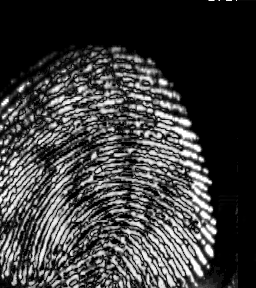
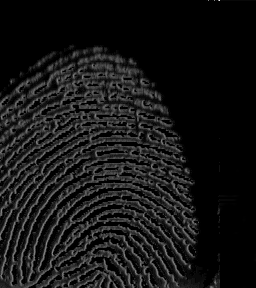
Doc + convention on some names

diff --git a/include/image.h b/include/image.h
@@ -165,7 +165,7 @@ class Image{
         * \param color color of the pixels in the rectangle
         * \return Image with the modified pixels
         */
-        Image rectangle(int x, int y, unsigned int length, unsigned int width, float color);
+        Image Rectangle(int x, int y, unsigned int length, unsigned int width, float color);
 
 
         /**
@@ -207,12 +207,11 @@ class Image{
 
         //PRESSURE
 
-        //Eventuellement le faire pour une ellipse quelconque
         /**
         * \brief Put the pixels of the image in a vector of Point
         * \return Vector of Point
         */
-        std::vector<cv::Point> matrix2vector();
+        std::vector<cv::Point> MatrixToVector();
 
 
         /**
@@ -221,7 +220,7 @@ class Image{
         * \param a,b are the semi axes
         * \return Vector of Point
         */
-        std::vector<cv::Point> outside_ellipse(cv::Point center, float a, float b);
+        std::vector<cv::Point> OutsideEllipse(cv::Point center, float a, float b);
 
 
         /**
@@ -232,7 +231,7 @@ class Image{
         * \param param, param_x, param_y are the parameters of the functions
         * \return Image with modified pressure
         */
-  	    Image pressure(cv::Point center, std::vector<cv::Point> coords,  bool iso = false,
+  	    Image Pressure(cv::Point center, std::vector<cv::Point> coords,  bool iso = false,
                         float param = 50, float param_x = 0.00035, float param_y = 0.000175);
 
 
@@ -241,11 +240,10 @@ class Image{
         * \param center is the center of the image
         * \param coords is the vector of coordinates to change
         * \param iso is the boolean saying if the function used is isotropic or not
-        * \param param_rot
-        * \param number_angles
-        * \param threshold
-        * \param param
-        * \param param_x, param_y
+        * \param param_rot is the angle by which the ellipsoid on which we apply the function is rotated
+        * \param number_angles is the number of angle ranges we want to use to approximate a weak pressure
+        * \param threshold is the threshold used to determine whether a random angle is kept or not
+        * \param param, param_x, param_y are the parameters of the function
         * \return Image with modified pressure
         */
   	    Image PressurePolar(cv::Point center, std::vector<cv::Point> coords,  bool iso = false,
@@ -370,75 +368,94 @@ class Image{
         // MORPHOLOGICAL FILTERING
 
         /**
-         * \brief
-         * \param threshold
+         * \brief Binarize an image using a user defined threshold
+         * \param threshold user defined parameter to determine whether a pixel is set to 0 or 1
          * \return Binarized image
          */ 
         Image BinarizeNaive(float threshold);
 
 
         /**
-         * \brief
+         * \brief Binarize an image using an optimal threshold (according to Otsu's method)
          * \return Binarized image
          */ 
         Image Binarize();
 
+        /**
+         * \brief Erode a binary image using a naive approach
+         * \param struct_elt is the structuring element
+         * \return Eroded image
+         */
+        Image ErodeNaive(std::vector<cv::Point> struct_elt);
 
         /**
-         * \brief
-         * \param struct_elt
-         * \return 
+         * \brief Dilate a binary image using \ref ErodeNaive
+         * Erosion and dilation are dual notions (an erosion of the foreground corresponds
+         * to a dilation of the background) thus it uses the already implemented \ref ErodeNaive
+         * \param struct_elt is the structuring element
+         * \return Dilated image
          */
         Image DilateNaive(std::vector<cv::Point> struct_elt);
 
 
-        /**
-         * \brief
-         * \param struct_elt
-         * \return 
-         */
-        Image ErodeNaive(std::vector<cv::Point> struct_elt);
 
 
         /**
-         * \brief
-         * \param kernel
-         * \return 
+         * \brief Erode an image after binarizing it
+         * \param kernel is the structuring element
+         * \return Eroded binary image
          */
         Image ErodeBin(cv::Mat_<float> kernel);
 
 
         /**
-         * \brief
-         * \param kernel
-         * \return 
+         * \brief Dilate an image after binarizing it using \ref ErodeBin
+         * Erosion and dilation are dual notions (an erosion of the foreground corresponds
+         * to a dilation of the background) thus it uses the already implemented \ref ErodeBin
+         * \param kernel the structuring element
+         * \return Dilated binary image
          */
         Image DilateBin(cv::Mat_<float> kernel);
 
 
         /**
-         * \brief
-         * \param kernel
-         * \return 
+         * \brief Erode a grayscale image
+         * \param kernel is the structuring element
+         * \return Eroded image
          */
         Image ErodeGray(cv::Mat_<float> kernel);
 
 
         /**
-         * \brief
-         * \param kernel
-         * \return 
+         * \brief Dilate a grayscale image using \ref ErodeGray
+         * Erosion and dilation are dual notions (an erosion of the foreground corresponds
+         * to a dilation of the background) thus it uses the already implemented \ref ErodeGray
+         * \param kernel the structuring element
+         * \return Dilated image
          */
-        Image DilateGray(cv::Mat_<float> kernel );
+        Image DilateGray(cv::Mat_<float> kernel);
 
 
         /**
-         * \brief
-         * \param kernel
-         * \param erosion_type
-         * \return 
+         * \brief A general method to use all the previous erosions
+         * \param kernel the structuring element
+         * This method also implements a complex erosion by taking the distance to the center
+         * into account
+         * \param erosion_type binary, grayscale or complex - determines which erosion to compute
+         * \return Eroded image
          */
-        Image Erode(cv::Mat_<float> kernel , std::string erosion_type);
+        Image Erode(cv::Mat_<float> kernel, std::string erosion_type);
+
+
+        /**
+         * \brief A general method to use all the previous dilations (calling \ref Erode)
+         * Erosion and dilation are dual notions (an erosion of the foreground corresponds
+         * to a dilation of the background) thus it uses the already implemented \ref Erode
+         * \param kernel the structuring element
+         * \param dilation_type binary, grayscale or complex - determines which dilation to compute
+         * \return Dilated image
+         */
+        Image Dilate(cv::Mat_<float> kernel, std::string dilation_type);
 
 
         /**

diff --git a/src/image.cpp b/src/image.cpp
@@ -182,7 +182,7 @@ void Image::save(std::string filename)
 }
 
 
-Image Image::rectangle(int x_begin, int y_begin,
+Image Image::Rectangle(int x_begin, int y_begin,
                        unsigned int length, unsigned int width,
                        float color)
 {
@@ -278,7 +278,7 @@ float Image::mean()
 
 //PRESSURE
 
-std::vector<cv::Point> Image::matrix2vector()
+std::vector<cv::Point> Image::MatrixToVector()
 {
     std::vector<cv::Point> coord(rows * cols);
 
@@ -291,7 +291,7 @@ std::vector<cv::Point> Image::matrix2vector()
 }
 
 
-std::vector<cv::Point> Image::outside_ellipse(cv::Point center, float a, float b)
+std::vector<cv::Point> Image::OutsideEllipse(cv::Point center, float a, float b)
 {
     std::vector<cv::Point> coords;
     cv::Point tmp((int)0, (int)0);
@@ -328,7 +328,7 @@ std::vector<cv::Point> Image::outside_ellipse(cv::Point center, float a, float b
 }
 
 
-Image Image::pressure(cv::Point center, std::vector<cv::Point> coords,
+Image Image::Pressure(cv::Point center, std::vector<cv::Point> coords,
                       bool iso, float param, float param_x, float param_y)
 {
     std::vector<float> new_values = coeffs(center, coords, param_x,
@@ -1051,6 +1051,16 @@ Image Image::Erode(cv::Mat_<float> kernel, std::string erosion_type)
 }
 
 
+Image Image::Dilate(cv::Mat_<float> kernel, std::string dilation_type)
+{
+    Image swapped = -(*this);
+    Image res = swapped.Erode(kernel, dilation_type);
+
+    return -res;
+}
+
+
+//BUG
 Image Image::Skeletonize()
 {
     Image bin = this->Binarize();
@@ -1067,6 +1077,7 @@ Image Image::Skeletonize()
 
     do {
         counter = 0;
+        std::cout << counter << std::endl;
         //STEP 1
         for (int y = 1; y < rows-1; y++) {
             for (int x = 1; x < cols-1; x++) {
@@ -1308,9 +1319,9 @@ Image Image::Skeletonize()
                     if (p7 == 0 && p8 == 1) S++;
                     if (p8 == 0 && p9 == 1) S++;
                     if (p9 == 0 && p2 == 1) S++;
-                    std::cout << "S: " << S << std::endl;
-                    std::cout << "N: " << N << std::endl;
-                    std::cout << p2 << p4 << p6 << p8 << std::endl;
+                    // std::cout << "S: " << S << std::endl;
+                    // std::cout << "N: " << N << std::endl;
+                    // std::cout << p2 << p4 << p6 << p8 << std::endl;
 
                     // p2 = y-1 < 0 ? bin(y, x) : bin(y-1, x);
                     // p4 = x+1 >= cols ? bin(y, x) : bin(y, x+1);

diff --git a/demo/test_pressure.cpp b/demo/test_pressure.cpp
@@ -47,13 +47,13 @@ int main()
     finger.display("Finger");
 
     // Test of the selected class of function
-    vector<cv::Point> points = finger.matrix2vector(); //we apply the function to all pixels
+    vector<cv::Point> points = finger.MatrixToVector(); //we apply the function to all pixels
     cv::Point center = finger.center();
 
     //isotropic function
-    Image iso = finger.pressure(center, points, true);
+    Image iso = finger.Pressure(center, points, true);
     //anisotropic function
-    Image aniso = finger.pressure(center, points);
+    Image aniso = finger.Pressure(center, points);
     //anisotropic polar function
     Image aniso_polar = finger.PressurePolar(center, points);
     

diff --git a/test/test_rectangles.h b/test/test_rectangles.h
@@ -13,7 +13,7 @@
 TEST(rectangles, white)
 {
     Image finger("../img/clean_finger.png");
-    Image res = finger.rectangle(50, 100, 60, 100, 1);
+    Image res = finger.Rectangle(50, 100, 60, 100, 1);
 
     for (int i = 100; i < 160; i++) {
         for (int j = 50; j < 150; j++)
@@ -25,7 +25,7 @@ TEST(rectangles, white)
 TEST(rectangles, black)
 {
     Image finger("../img/clean_finger.png");
-    Image res = finger.rectangle(180, 150, 70, 30, 0);
+    Image res = finger.Rectangle(180, 150, 70, 30, 0);
 
     for (int i = 150; i < 220; i++) {
         for (int j = 180; j < 210; j++)

diff --git a/src/pressure.cpp b/src/pressure.cpp
@@ -149,8 +149,8 @@ std::vector<cv::Point> points_ellipse(cv::Point center, float a, float b)
     std::vector<cv::Point> res;
     std::vector<float> lin = linspace(0, 2*PI, 10000);
 
-    for (std::vector<float>::iterator i = lin.begin(); i != lin.end(); i++)
-        res.push_back(cv::Point(int(center.x + a * cos(*i)), int(center.y + b * sin(*i))));
+    for (auto it : lin)
+        res.push_back(cv::Point(int(center.x + a * cos(it)), int(center.y + b * sin(it))));
 
     return res;
 }

diff --git a/demo/test_linear_filtering.cpp b/demo/test_linear_filtering.cpp
@@ -110,8 +110,8 @@ int main(){
 
 
     //Improvements
-    std::vector<cv::Point> pts = blur_img.matrix2vector();
-    Image best = blur_img.pressure(center, pts, false, 30, 0.0002, 0.0001);
+    std::vector<cv::Point> pts = blur_img.MatrixToVector();
+    Image best = blur_img.Pressure(center, pts, false, 30, 0.0002, 0.0001);
     best.display("Best");
     best.save("best");
 

diff --git a/demo/test_rectangles.cpp b/demo/test_rectangles.cpp
@@ -20,8 +20,8 @@ int main()
 
     finger.display("Clean finger");
 
-    Image res = finger.rectangle(180,150,70,30,0);
-    res = res.rectangle(50, 100, 60, 100, 1);
+    Image res = finger.Rectangle(180,150,70,30,0);
+    res = res.Rectangle(50, 100, 60, 100, 1);
     res.display("Black and white rectangles");
 
     res.save("rectangles");

diff --git a/demo/test_morphological_filtering.cpp b/demo/test_morphological_filtering.cpp
@@ -111,8 +111,9 @@ int main()
 
     // cv::destroyAllWindows();
 
-    // Image skeleton = finger.Skeletonize();
-    // skeleton.display("Skeleton");
+    Image small_finger("../img/clean_finger_small.png");
+    Image skeleton = small_finger.Skeletonize();
+    skeleton.display("Skeleton");
 
     return 0;
 }

diff --git a/demo/demo.cpp b/demo/demo.cpp
@@ -105,7 +105,7 @@ int main()
         switch (test)
         {
         case 1:
-            system("./demo/translations");
+            system("./demo/translation");
             break;
         case 2:
             system("./demo/optimization");
